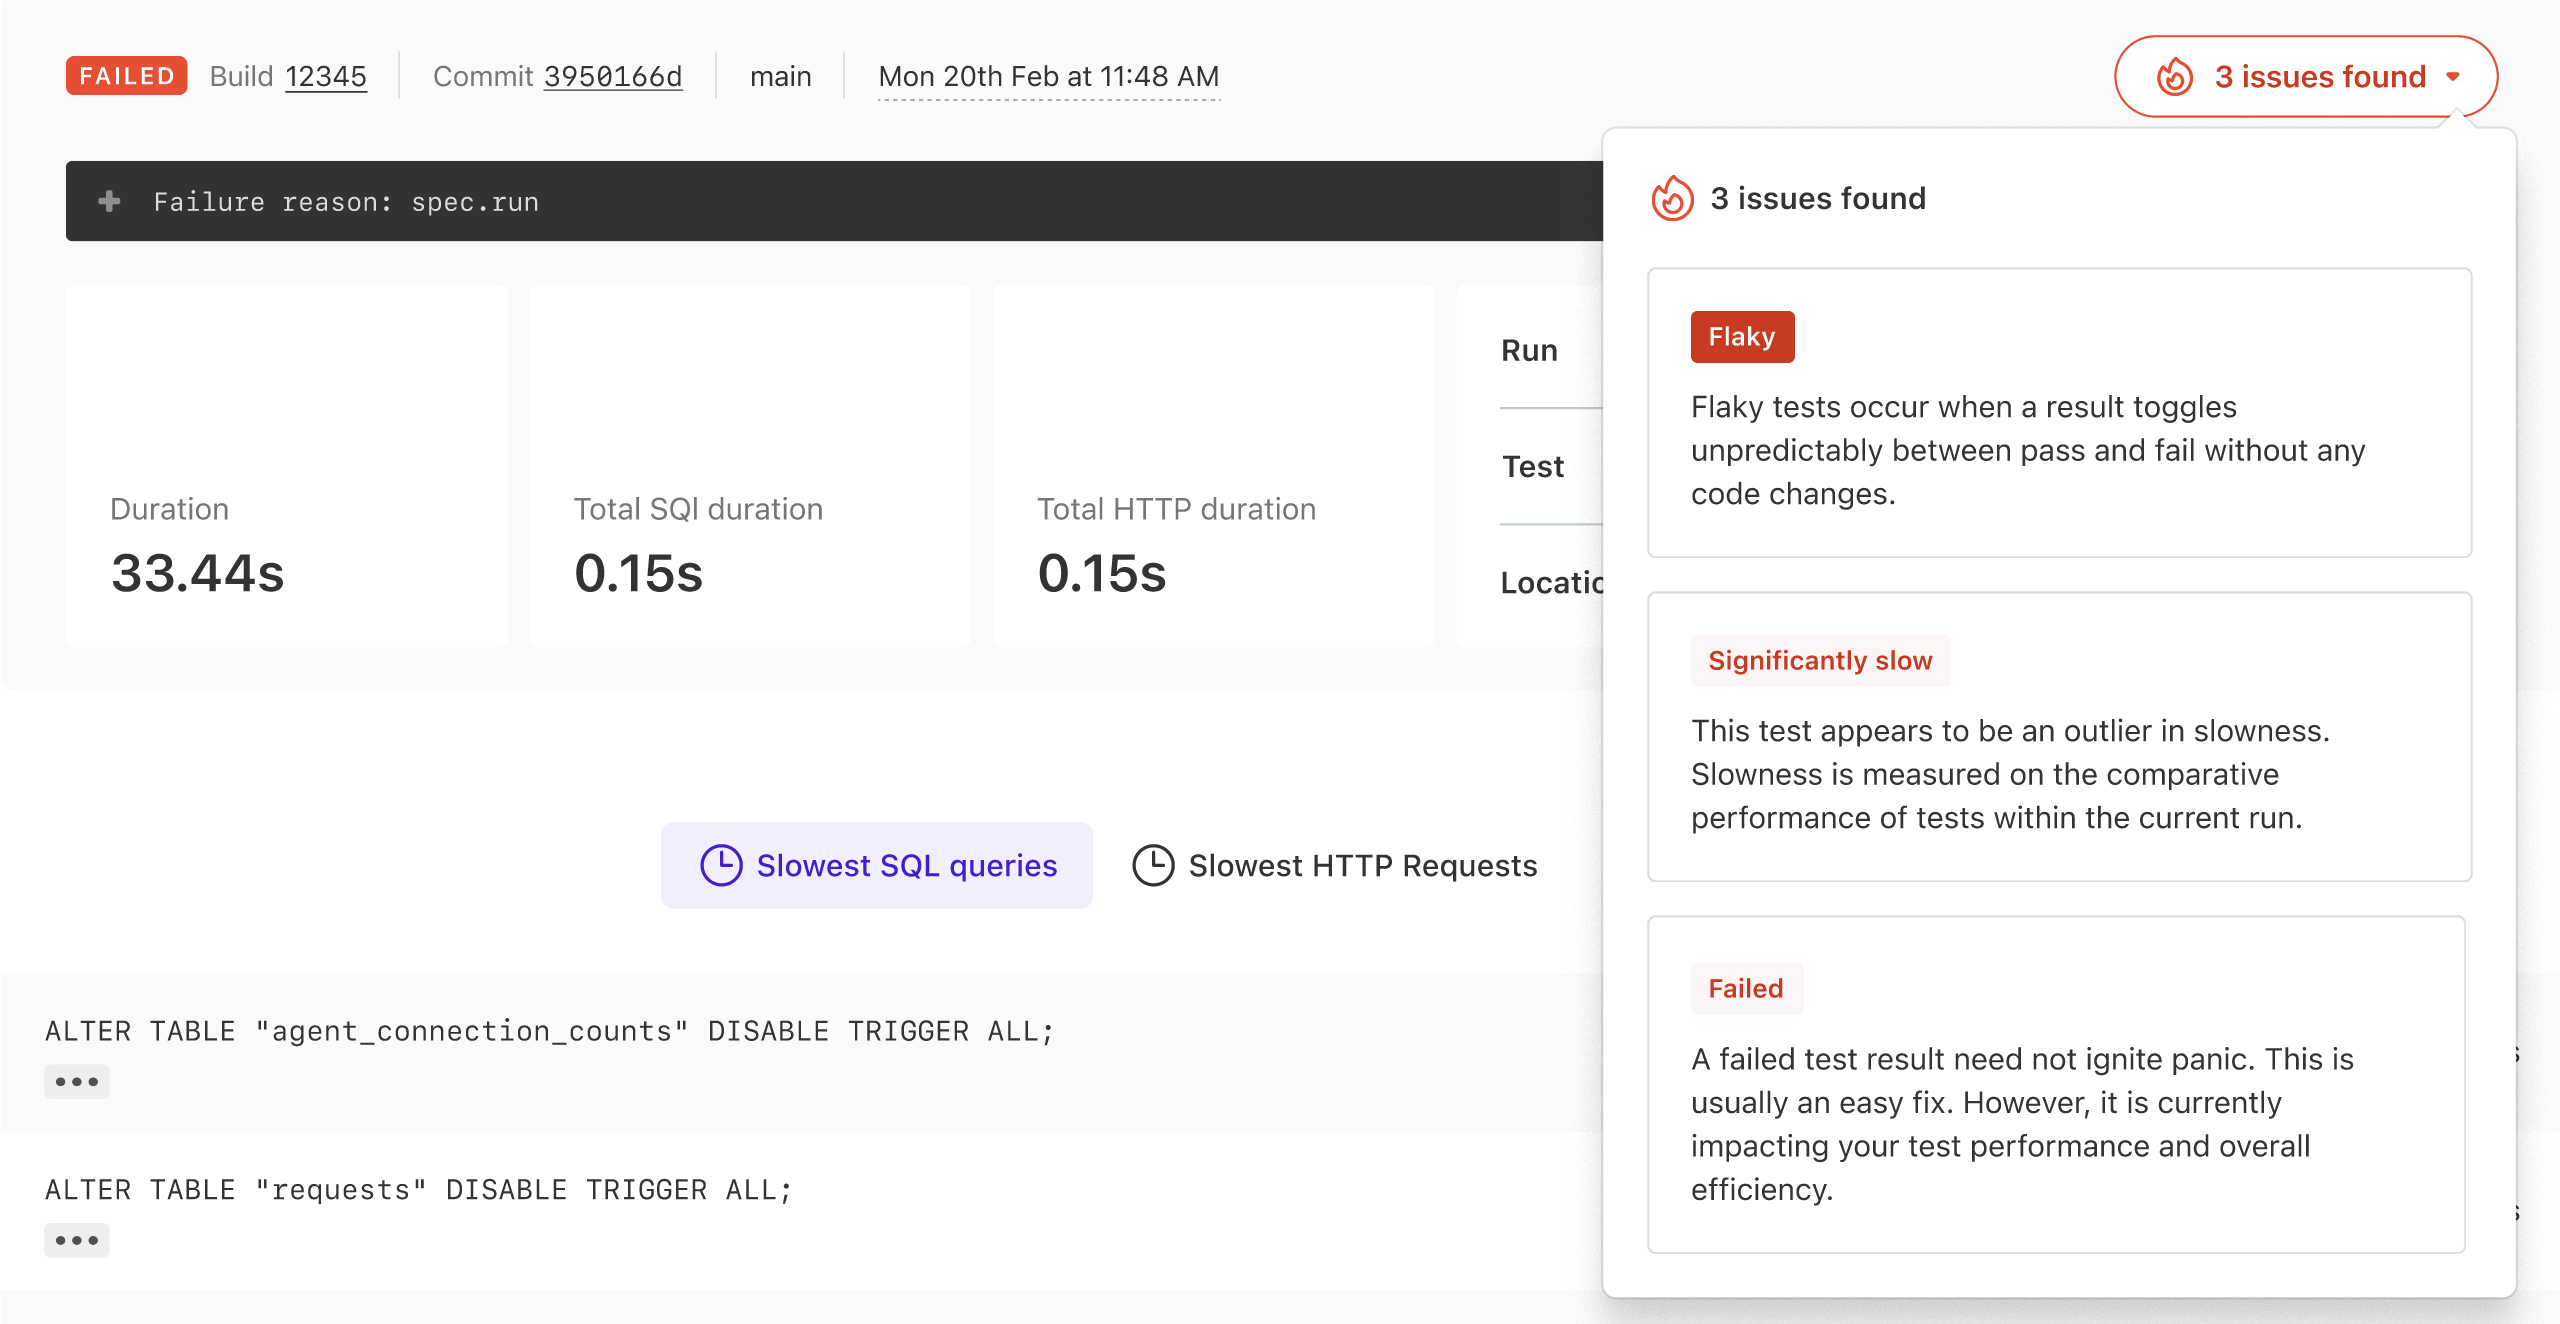
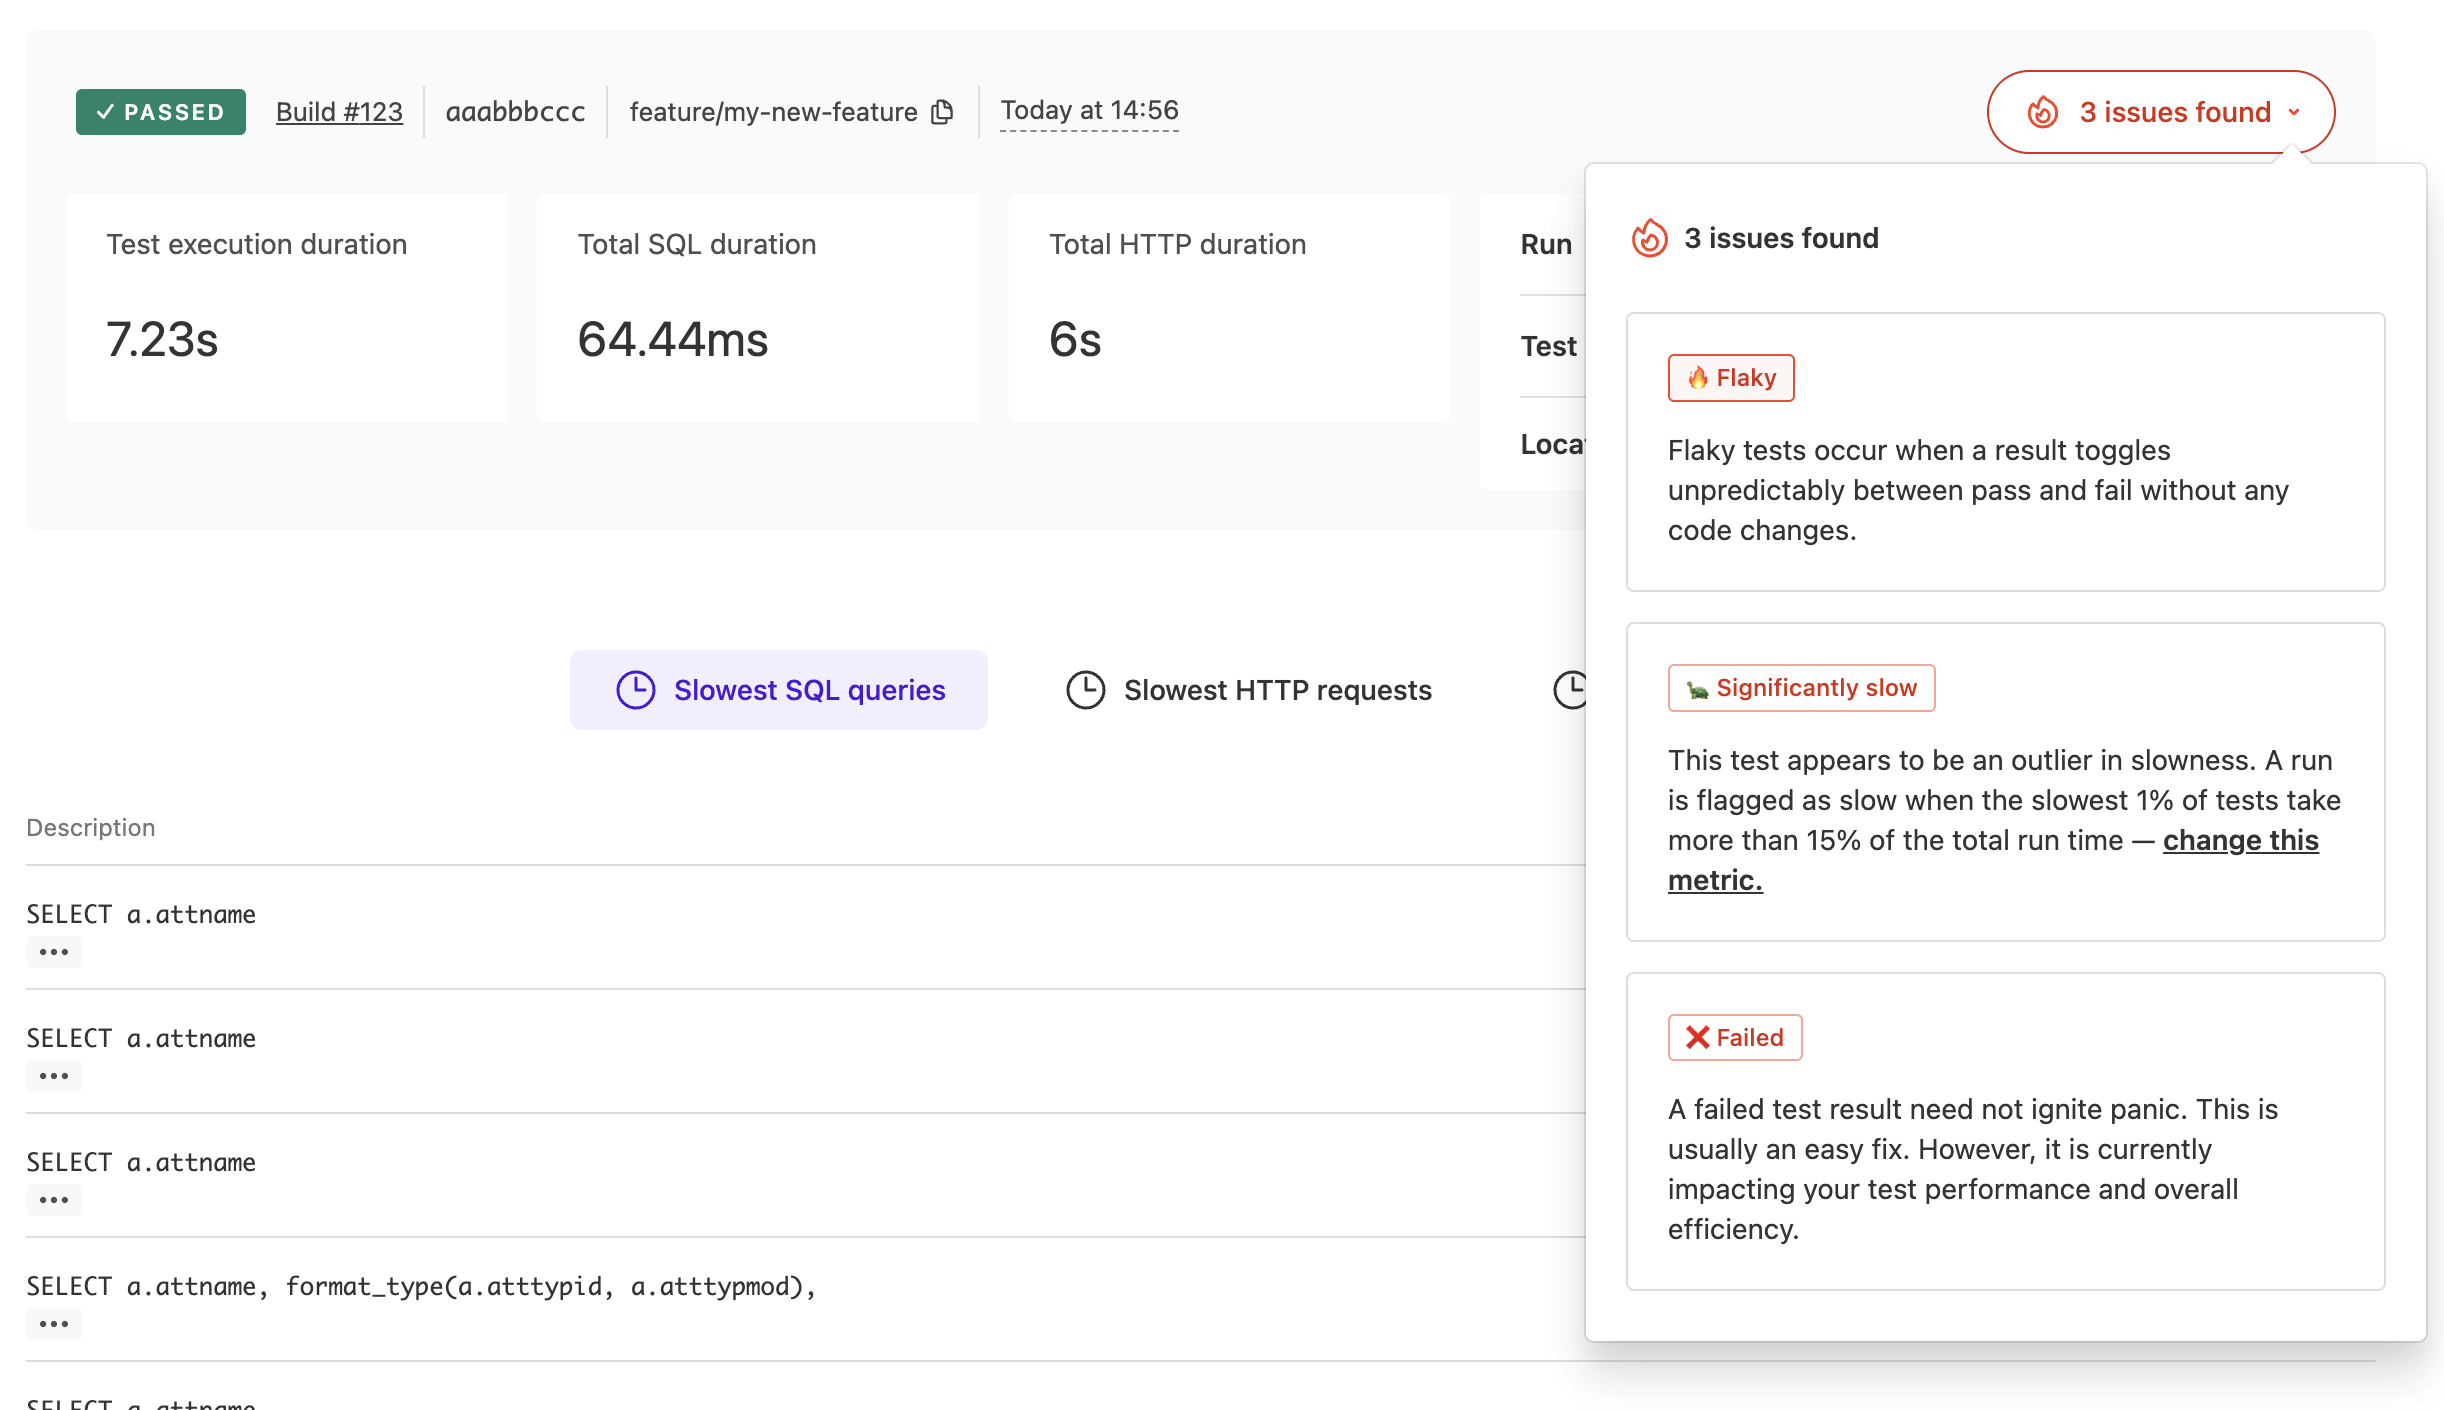
remove beta notice and update screenshots

diff --git a/pages/test_analytics/test_suites.md b/pages/test_analytics/test_suites.md
@@ -37,9 +37,6 @@ Test Analytics reviews the test results to detect flaky tests after every test r
 
 ## Run issues
 
->🛠 Beta feature
-> The run issues feature is currently in public beta and subject to change.
-
 <%= image "run-issues.png", alt: "Screenshot of a run with issues displaying in a list, including flaky, slow and failures." %>
 
 Test Analytics will automatically detect issues per run. For each test, we currently detect three issues: flaky, slow and failure. And display total number of issues, along with the following, ordered by the most problematic to least problematic:
